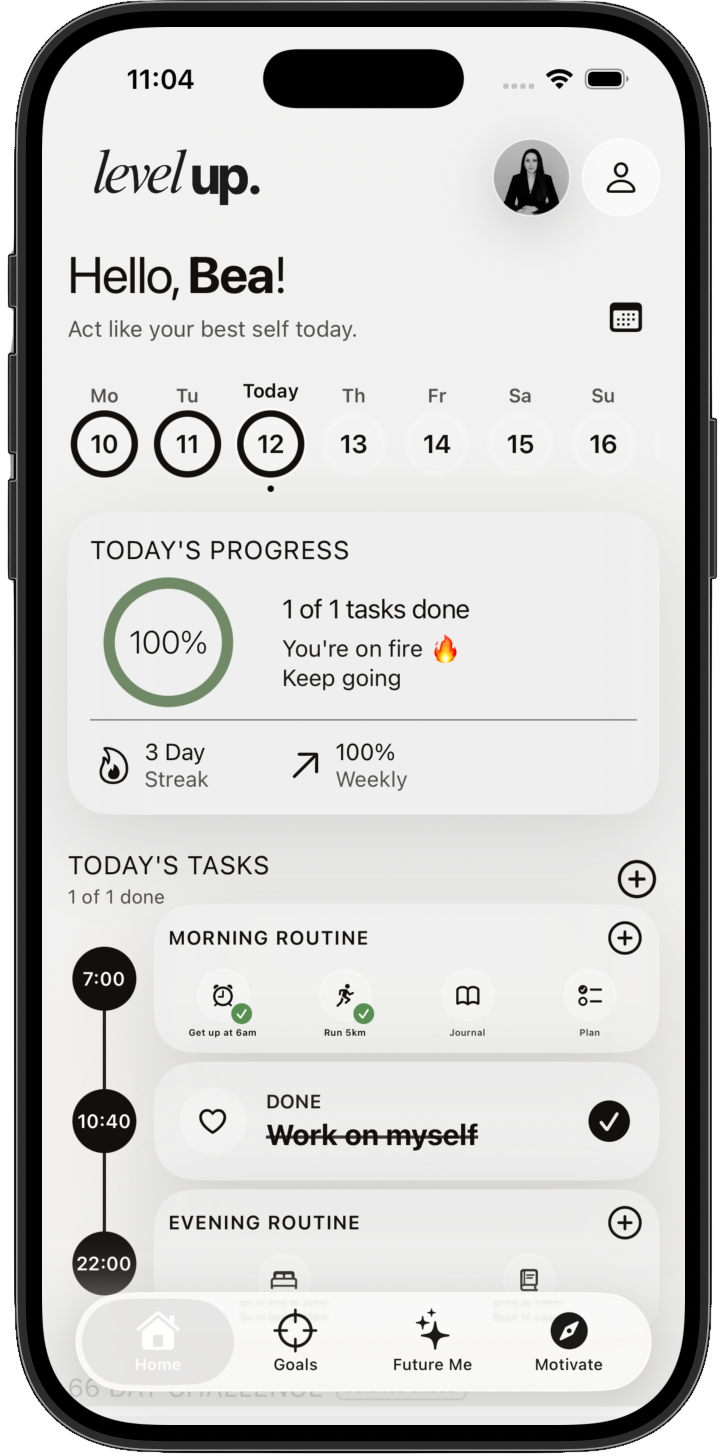
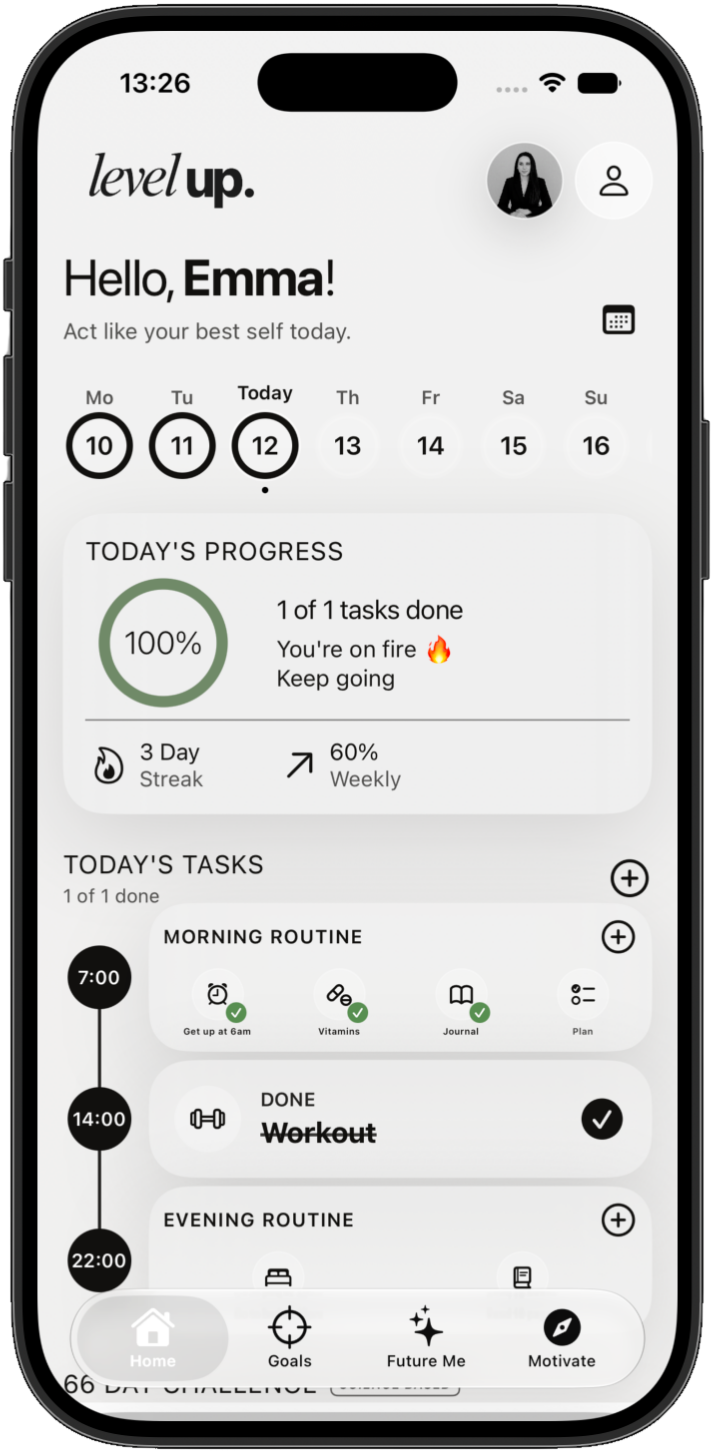
updates

diff --git a/index.html b/index.html
@@ -60,12 +60,12 @@
         />
         <div class="floating-card progress-float">
           <span>Today</span>
-          <strong>40%</strong>
+          <strong>100%</strong>
           <small>tasks done</small>
         </div>
         <div class="floating-card streak-float">
           <span>This week</span>
-          <strong>4 / 7</strong>
+          <strong>3 / 7</strong>
           <small>days complete</small>
         </div>
       </div>
@@ -87,8 +87,8 @@
         </article>
         <article>
           <div class="step-icon">3</div>
-          <h3>Missions</h3>
-          <p>Complete small missions that count.</p>
+          <h3>Tasks</h3>
+          <p>Complete small tasks that count.</p>
         </article>
         <article>
           <div class="step-icon">4</div>

diff --git a/style.css b/style.css
@@ -246,6 +246,7 @@ h2 {
   border-radius: 0;
   box-shadow: none;
   background: transparent;
+  transform: translateY(-25px);
 }
 
 .floating-card {
@@ -289,7 +290,7 @@ h2 {
 }
 
 .streak-float {
-  right: 8px;
+  right: 18px;
   bottom: 120px;
 }
 
